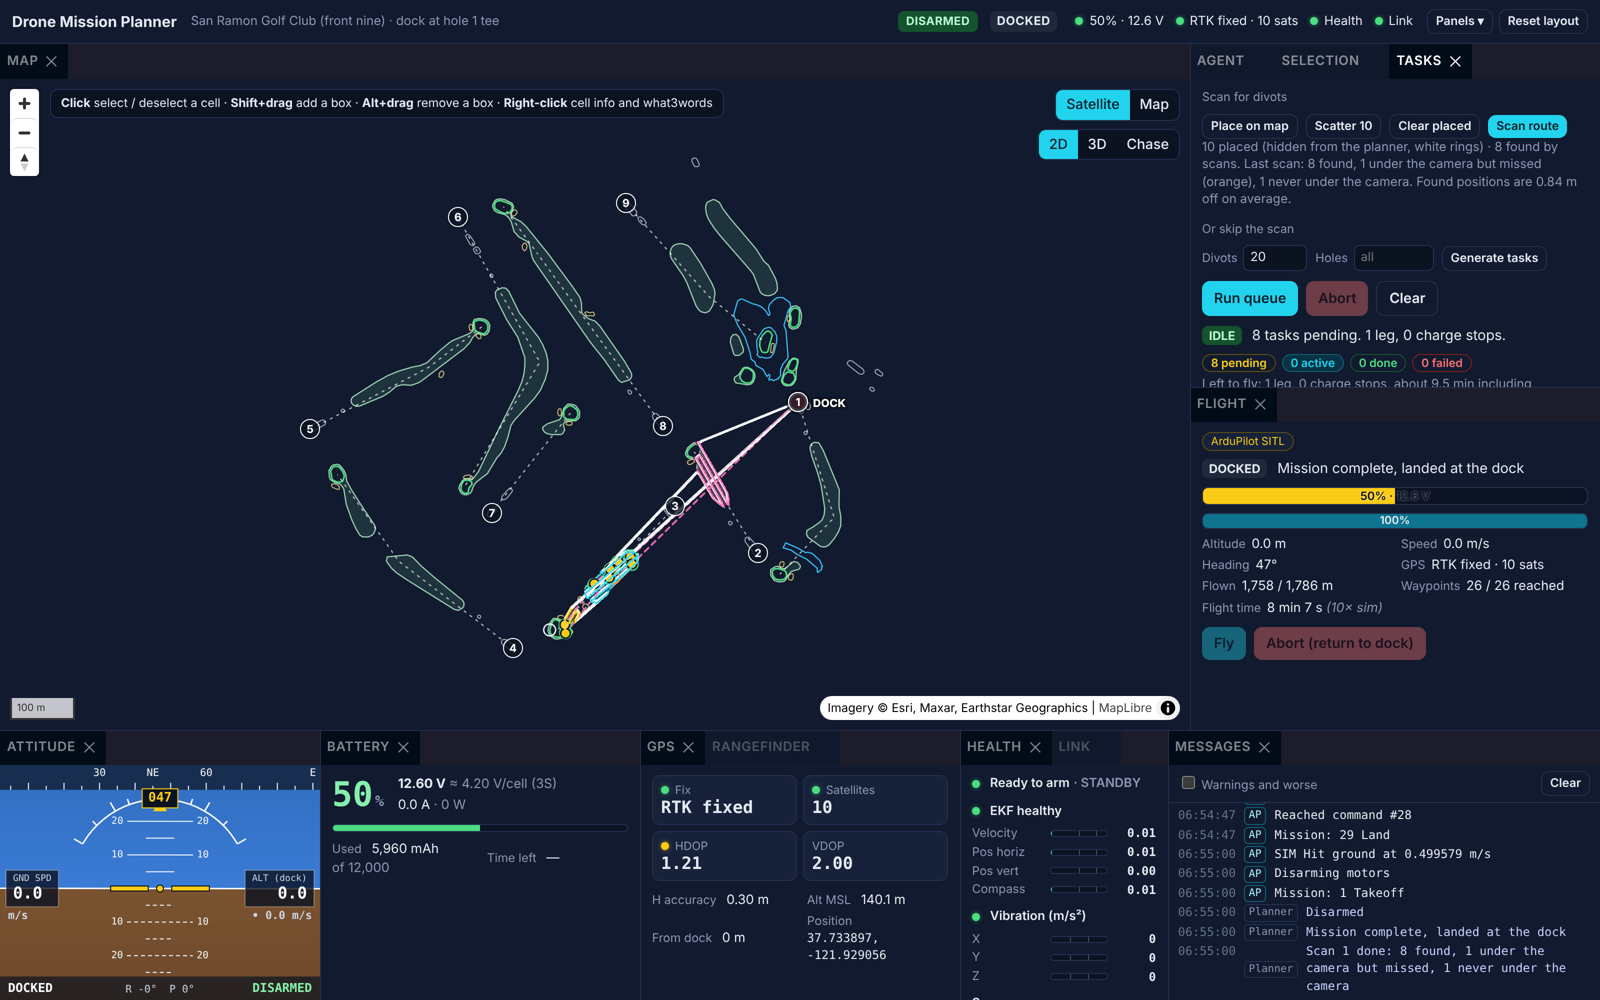
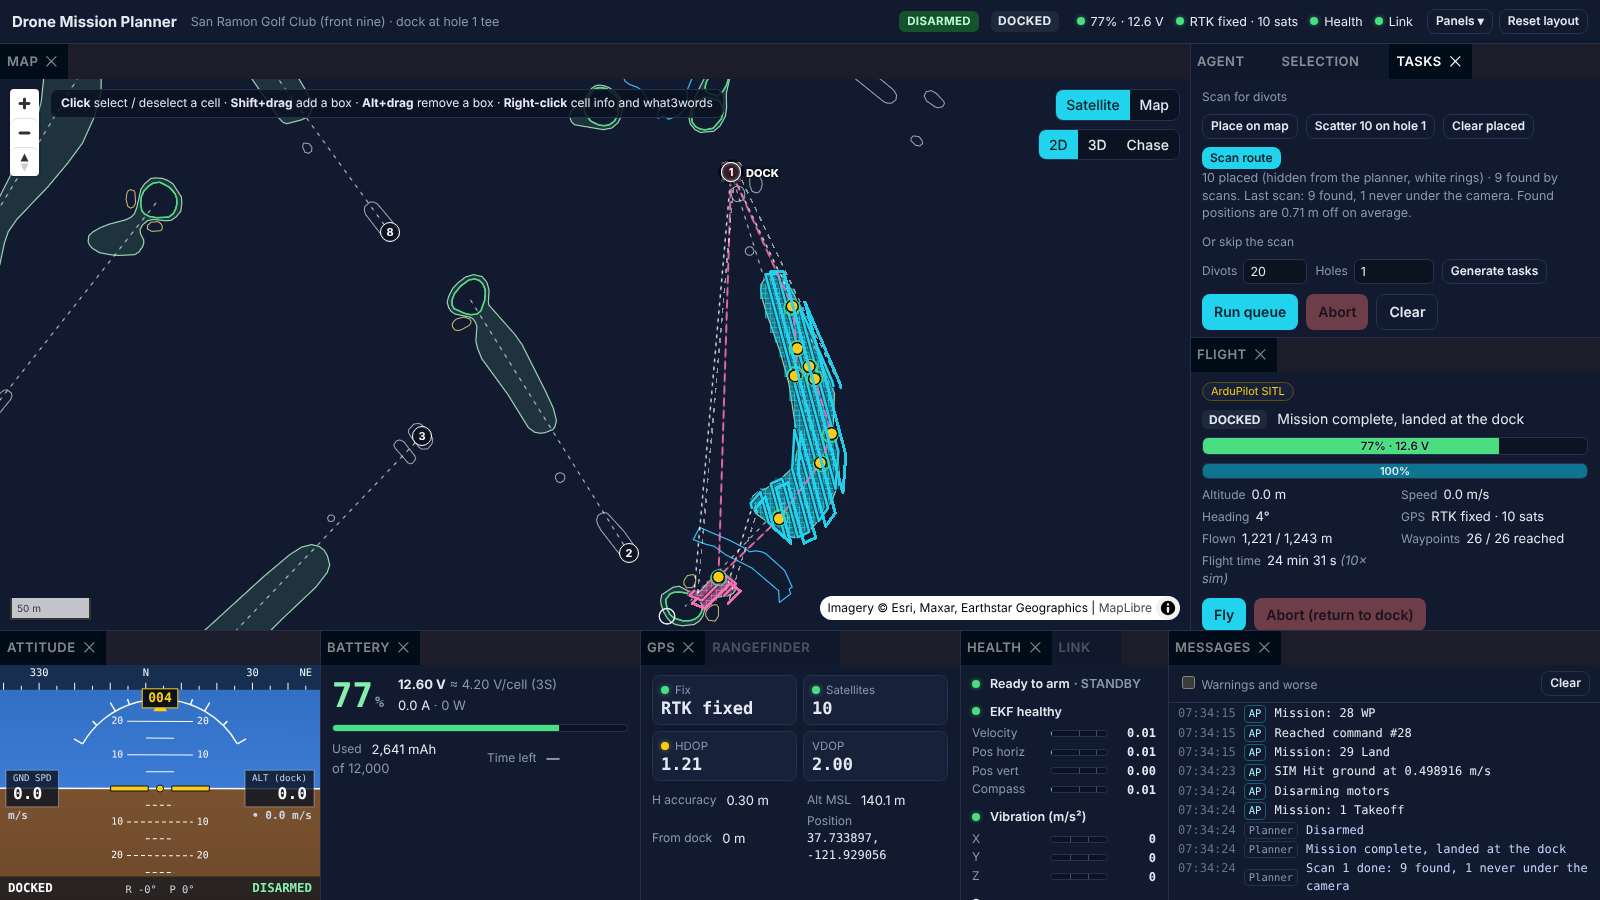
Find every divot under the camera, with no simulated misses
Drop SCAN_DETECT_P and the detection roll: a divot that passes under the
camera footprint at survey altitude is always found. The position error
stays. Remove the orange 'missed' ring and counts, fix the get_tasks
description, and refresh the scan screenshot with a hole 1 run on SITL.

diff --git a/frontend/src/tasks.ts b/frontend/src/tasks.ts
@@ -184,8 +184,8 @@ function drawMap(s: QueueState) {
     type: "FeatureCollection",
     features: s.field.placed.map((d) => ({
       type: "Feature",
-      // White: hidden, not found yet. Orange: was under the camera and missed. Green: found.
-      properties: { id: d.id, color: d.found_task ? "#4ade80" : d.missed ? "#fb923c" : "#f8fafc" },
+      // White: hidden, not found yet. Green: found.
+      properties: { id: d.id, color: d.found_task ? "#4ade80" : "#f8fafc" },
       geometry: { type: "Point", coordinates: [d.lon, d.lat] },
     })),
   });
@@ -241,8 +241,8 @@ function drawPanel(s: QueueState) {
   $("#field-status").innerHTML = f.scanning
     ? `<b>Scanning…</b> ${f.found} found so far.`
     : f.placed.length || f.scans
-      ? `${f.placed.length} placed (hidden from the planner, white rings) · ${f.found} found by scans${ls ? `. Last scan: ${ls.found} found, ${ls.missed_in_view} under the camera but missed (orange), ${ls.not_covered} never under the camera.` : "."}${f.mean_error_m != null ? ` Found positions are ${f.mean_error_m} m off on average.` : ""}`
-      : `Place divots on the map, preview a path over them (or ask the agent to plan a scan), then Scan route. The camera sees a ${f.camera.footprint_m} m strip and finds ${Math.round(f.camera.detect_p * 100)}% of what passes under it.`;
+      ? `${f.placed.length} placed (hidden from the planner, white rings) · ${f.found} found by scans${ls ? `. Last scan: ${ls.found} found, ${ls.not_covered} never under the camera.` : "."}${f.mean_error_m != null ? ` Found positions are ${f.mean_error_m} m off on average.` : ""}`
+      : `Place divots on the map, preview a path over them (or ask the agent to plan a scan), then Scan route. The camera sees a ${f.camera.footprint_m} m strip and finds every divot that passes under it.`;
   const e = s.energy;
   $("#queue-model").innerHTML = `<b>Energy model${e.calibrated ? "" : " (uncalibrated placeholders)"}:</b> ${e.cells}S ${fmtInt(e.pack_mah)} mAh, land with ≥ ${e.reserve_pct}% left
     (${fmtInt(e.usable_mah)} mAh per leg), ${e.hover_a} A hover, ${e.cruise_a} A cruise, ×${e.margin} margin: about ${e.hover_minutes_to_reserve} min of hover per leg.

diff --git a/frontend/src/api.ts b/frontend/src/api.ts
@@ -206,18 +206,17 @@ export interface PlacedDivot {
   found_task: string | null;
   found_error_m: number | null;
   seen: boolean;
-  missed: number;
 }
 
 export interface DivotField {
   placed: PlacedDivot[];
   scanning: boolean;
   scans: number;
-  last_scan: { index: number; found: number; missed_in_view: number; not_covered: number } | null;
+  last_scan: { index: number; found: number; not_covered: number } | null;
   found: number;
   not_found: number;
   mean_error_m: number | null;
-  camera: { footprint_m: number; detect_p: number; pos_err_m: number };
+  camera: { footprint_m: number; pos_err_m: number };
 }
 
 async function req<T>(method: string, url: string, body?: unknown): Promise<T> {

diff --git a/backend/app/scan.py b/backend/app/scan.py
@@ -6,15 +6,16 @@ The flow this supports:
    truth of the simulation and the planner does not see them.
 2. A **scan run** flies a coverage route (the same route the Fly button
    flies). While it flies, any placed divot that passes under the camera
-   footprint at survey altitude gets one detection roll. A hit becomes a
-   pending task at the detected position (the true one plus a small error).
+   footprint at survey altitude is found. It becomes a pending task at the
+   detected position (the true one plus a small error).
 3. A **repair run** is the task queue: it flies the found tasks in legs with
    charge stops (task_queue.py).
 
 The "camera" is geometry only: a strip as wide as the camera's ground
 footprint (planner.CAMERA_HFOV_DEG at the current altitude) under the drone,
-a detection probability, and a position error. There is no image, resolution
-or lighting model. The numbers are placeholders like the rest of the sim.
+and a position error. Everything under the footprint is found: there is no
+image, resolution or lighting model, and no simulated misses. The numbers are
+placeholders like the rest of the sim.
 """
 
 from __future__ import annotations
@@ -30,7 +31,6 @@ from shapely.geometry import LineString, Point
 from . import planner, vitals
 from .course import Course
 
-DETECT_P = float(os.getenv("SCAN_DETECT_P", "0.9"))  # chance a divot under the footprint is found
 POS_ERR_M = float(os.getenv("SCAN_POS_ERR_M", "0.5"))  # 1-sigma error of the detected position, per axis
 MIN_ALT_FRAC = 0.8  # only detect at 80% or more of survey altitude (not on takeoff or landing)
 POLL_S = 0.2
@@ -52,7 +52,6 @@ class Placed:
     found_task: str | None = None  # the task a scan created for it
     found_error_m: float | None = None  # detected position vs. the real one
     seen: bool = False  # was under the camera during a scan
-    missed: int = 0  # scans that saw it and failed the detection roll
 
     def to_json(self, course: Course) -> dict:
         lon, lat = course.frame.to_lonlat(self.x, self.y)
@@ -124,9 +123,8 @@ class DivotField:
         self._task = asyncio.create_task(self._watch(waypoints))
 
     async def _watch(self, waypoints: list[tuple[float, float]]) -> None:
-        rolled: set[str] = set()
+        seen_now: set[str] = set()
         found: list[str] = []
-        missed: list[str] = []
         last: tuple[float, float] | None = None
         alt_min = MIN_ALT_FRAC * planner.ALTITUDE_M
         started = False
@@ -152,33 +150,28 @@ class DivotField:
                     half = footprint_m(tel["alt_m"]) / 2
                     seg = LineString([last, here]) if last and last != here else Point(here)
                     for d in self.placed.values():
-                        if d.id in rolled or self._found(d):
+                        if d.id in seen_now or self._found(d):
                             continue
                         if seg.distance(Point(d.x, d.y)) <= half:
-                            rolled.add(d.id)
+                            seen_now.add(d.id)
                             d.seen = True
-                            if self.rng.random() < DETECT_P:
-                                tx = d.x + self.rng.gauss(0, POS_ERR_M)
-                                ty = d.y + self.rng.gauss(0, POS_ERR_M)
-                                task = self.queue.add_found(tx, ty, d.hole, note=f"Found by scan {self.scan_count}")
-                                d.found_task = task.id
-                                d.found_error_m = math.dist((tx, ty), (d.x, d.y))
-                                found.append(d.id)
-                                self._log(f"Scan: divot found near hole {d.hole or '?'} ({task.id})")
-                            else:
-                                d.missed += 1
-                                missed.append(d.id)
+                            tx = d.x + self.rng.gauss(0, POS_ERR_M)
+                            ty = d.y + self.rng.gauss(0, POS_ERR_M)
+                            task = self.queue.add_found(tx, ty, d.hole, note=f"Found by scan {self.scan_count}")
+                            d.found_task = task.id
+                            d.found_error_m = math.dist((tx, ty), (d.x, d.y))
+                            found.append(d.id)
+                            self._log(f"Scan: divot found near hole {d.hole or '?'} ({task.id})")
                     last = here
                 else:
                     last = None
                 await asyncio.sleep(POLL_S)
         finally:
             self.scanning = False
-            never = [d.id for d in self.placed.values() if d.id not in rolled and not self._found(d)]
-            self.last_scan = {"index": self.scan_count, "found": len(found), "missed_in_view": len(missed), "not_covered": len(never)}
+            never = [d.id for d in self.placed.values() if d.id not in seen_now and not self._found(d)]
+            self.last_scan = {"index": self.scan_count, "found": len(found), "not_covered": len(never)}
             self._log(
-                f"Scan {self.scan_count} done: {len(found)} found, {len(missed)} under the camera but missed, "
-                f"{len(never)} never under the camera",
+                f"Scan {self.scan_count} done: {len(found)} found, {len(never)} never under the camera",
                 vitals.NOTICE,
             )
             self.queue.replan()
@@ -209,7 +202,6 @@ class DivotField:
             "mean_error_m": round(sum(errs) / len(errs), 2) if errs else None,
             "camera": {
                 "footprint_m": round(footprint_m(planner.ALTITUDE_M), 1),
-                "detect_p": DETECT_P,
                 "pos_err_m": POS_ERR_M,
             },
         }

diff --git a/backend/tests/test_scan.py b/backend/tests/test_scan.py
@@ -27,7 +27,6 @@ def test_footprint_matches_pass_spacing():
 
 def test_place_scan_then_repair(monkeypatch):
     monkeypatch.setattr(config, "SIM_SPEEDUP", 60.0)
-    monkeypatch.setattr(scan, "DETECT_P", 1.0)
     monkeypatch.setattr(appmain.tasks, "model", dataclasses.replace(appmain.tasks.model, charge_speedup=1e6))
     with TestClient(appmain.app) as c:
         c.post("/api/queue/clear")
@@ -47,8 +46,9 @@ def test_place_scan_then_repair(monkeypatch):
         assert c.post("/api/queue/run").status_code == 409  # scan flying
         s = _wait(c, lambda s: not s["field"]["scanning"] and s["field"]["last_scan"])
         f = s["field"]
-        # Every divot on hole 1's fairway is found (detection forced to 1.0); hole 9's is never under the camera.
+        # Every divot under the camera is found (no simulated misses); hole 9's is never under the camera.
         assert f["last_scan"]["not_covered"] >= 1
+        assert all(d["found_task"] for d in f["placed"] if d["seen"])
         found = [d for d in f["placed"] if d["found_task"]]
         assert len(found) == len(s["tasks"]) >= 4
         assert all(d["found_error_m"] < 3 for d in found)

diff --git a/backend/app/agent.py b/backend/app/agent.py
@@ -92,8 +92,8 @@ TOOLS: list[dict[str, Any]] = [
     {
         "name": "get_tasks",
         "description": (
-            "The divot task queue and scan results: how many divots the user placed (positions are hidden), how many "
-            "scans found, the last scan's found / missed / not covered counts, task counts by status, and the "
+            "The divot task queue and scan results: how many divots scans have found (never the hidden "
+            "placed divots or their positions), task counts by status, and the "
             "planned repair legs with charge stops."
         ),
         "input_schema": {"type": "object", "properties": {}, "additionalProperties": False},

diff --git a/docs/concepts/task-queue.md b/docs/concepts/task-queue.md
@@ -59,13 +59,13 @@ The tasks can also come from a scan instead of being generated:
 2. **Scan run**: select an area and preview its path (or ask the agent: "plan
    a divot scan of hole 1", which calls `plan_scan`), then **Scan
    route**. The drone flies the coverage path. Every hidden divot that passes
-   under the camera footprint at survey altitude gets one detection roll per
-   scan; a hit becomes a pending task at the detected position. Rings turn
-   green when found and orange when the camera saw them but missed.
+   under the camera footprint at survey altitude is found and becomes a
+   pending task at the detected position. Rings turn green when found; a ring
+   still white after a scan was never under the camera.
 3. **Repair run**: "plan the repair run" (`plan_repair`) shows the legs and
    charge stops; **Run queue** flies them as above.
 
-![After a scan of holes 2 and 3 on ArduPilot SITL: 10 placed divots, 8 found (green dots and rings), 1 missed under the camera (orange), 1 never under the camera](../img/scan-sitl.png)
+![After a scan of hole 1 on ArduPilot SITL: 10 placed divots, 9 found (yellow task dots), 1 on the unscanned fairway sliver and never under the camera](../img/scan-sitl.png)
 
 The agent plans every step and a person starts every flight
 ([decision D11](../decisions.md#d11-divot-scans-detection-by-geometry-and-a-person-starts-every-flight)).
@@ -110,7 +110,6 @@ the queue took the number of legs it planned.
 | `DIVOT_SERVICE_ALT_M` | `4` | Height above the dock to work at a divot. |
 | `DIVOT_SERVICE_S` | `15` | Default time on station per divot. |
 | `QUEUE_GUARD_PCT` | `20` | Cut a leg short if the vehicle's battery reads below this. |
-| `SCAN_DETECT_P` | `0.9` | Chance that a divot under the camera footprint is found (one roll per divot per scan). |
 | `SCAN_POS_ERR_M` | `0.5` | 1-sigma error of a found divot's position, per axis. |
 
 ## Background
@@ -206,12 +205,12 @@ adds more. Faster charging is possible but wears the pack.
   safety pilot are in place. That last part is not done or tested here.
 - **Detection is geometry, not vision.** A divot is "seen" if it is within
   half the camera footprint of the drone's track at 80% or more of survey
-  altitude (25 m wide at 15 m, from `planner.CAMERA_HFOV_DEG`), then found
-  with probability `SCAN_DETECT_P`, at a position off by `SCAN_POS_ERR_M`.
-  There is no camera resolution, motion blur, lighting or grass model, and
-  nothing says a 10 cm divot is actually visible from 15 m with the camera
-  you pick. One roll per divot per scan is generous too: overlapping passes
-  see a divot about three times, but the roll doesn't get three chances.
+  altitude (25 m wide at 15 m, from `planner.CAMERA_HFOV_DEG`), and every
+  divot seen is found, at a position off by `SCAN_POS_ERR_M`. There are no
+  simulated misses (mj, 2026-11-23): no camera resolution, motion blur,
+  lighting or grass model, and nothing says a 10 cm divot is actually visible
+  from 15 m with the camera you pick. A real detector will miss some, so real
+  numbers will be worse than the sim's.
 - **A scan covers the selected cells, not the whole fairway.** `feature_cells`
   drops fairway slivers under 10 cells, so a divot on a sliver is never under
   the camera ("never under the camera" in the scan line). Seen in SITL on

diff --git a/docs/decisions.md b/docs/decisions.md
@@ -294,12 +294,12 @@ See [Task queue, legs and charge stops](concepts/task-queue.md).
 **Status:** accepted (2026-11-23)
 
 **Decision.** In simulation the user places hidden divots, a scan run finds
-the ones that pass under the camera footprint (with a detection probability
-and a position error), and the found ones become tasks for the repair queue.
+every one that passes under the camera footprint (with a position error,
+and no simulated misses), and the found ones become tasks for the repair queue.
 The agent can plan scans (`plan_scan`) and repairs (`plan_repair`) and read
 the results, but it cannot start a scan, a queue run or any flight: a person
 presses Scan route or Run queue. The agent sees only what the drone would
-know (how many it found), not the hidden positions or the misses.
+know (how many it found), not the hidden positions or how many there are.
 
 **Why.** mj chose "agent plans, you press Fly/Run" when the scan tools were
 added. The same code will drive a real Pixhawk, so keeping a person on every
